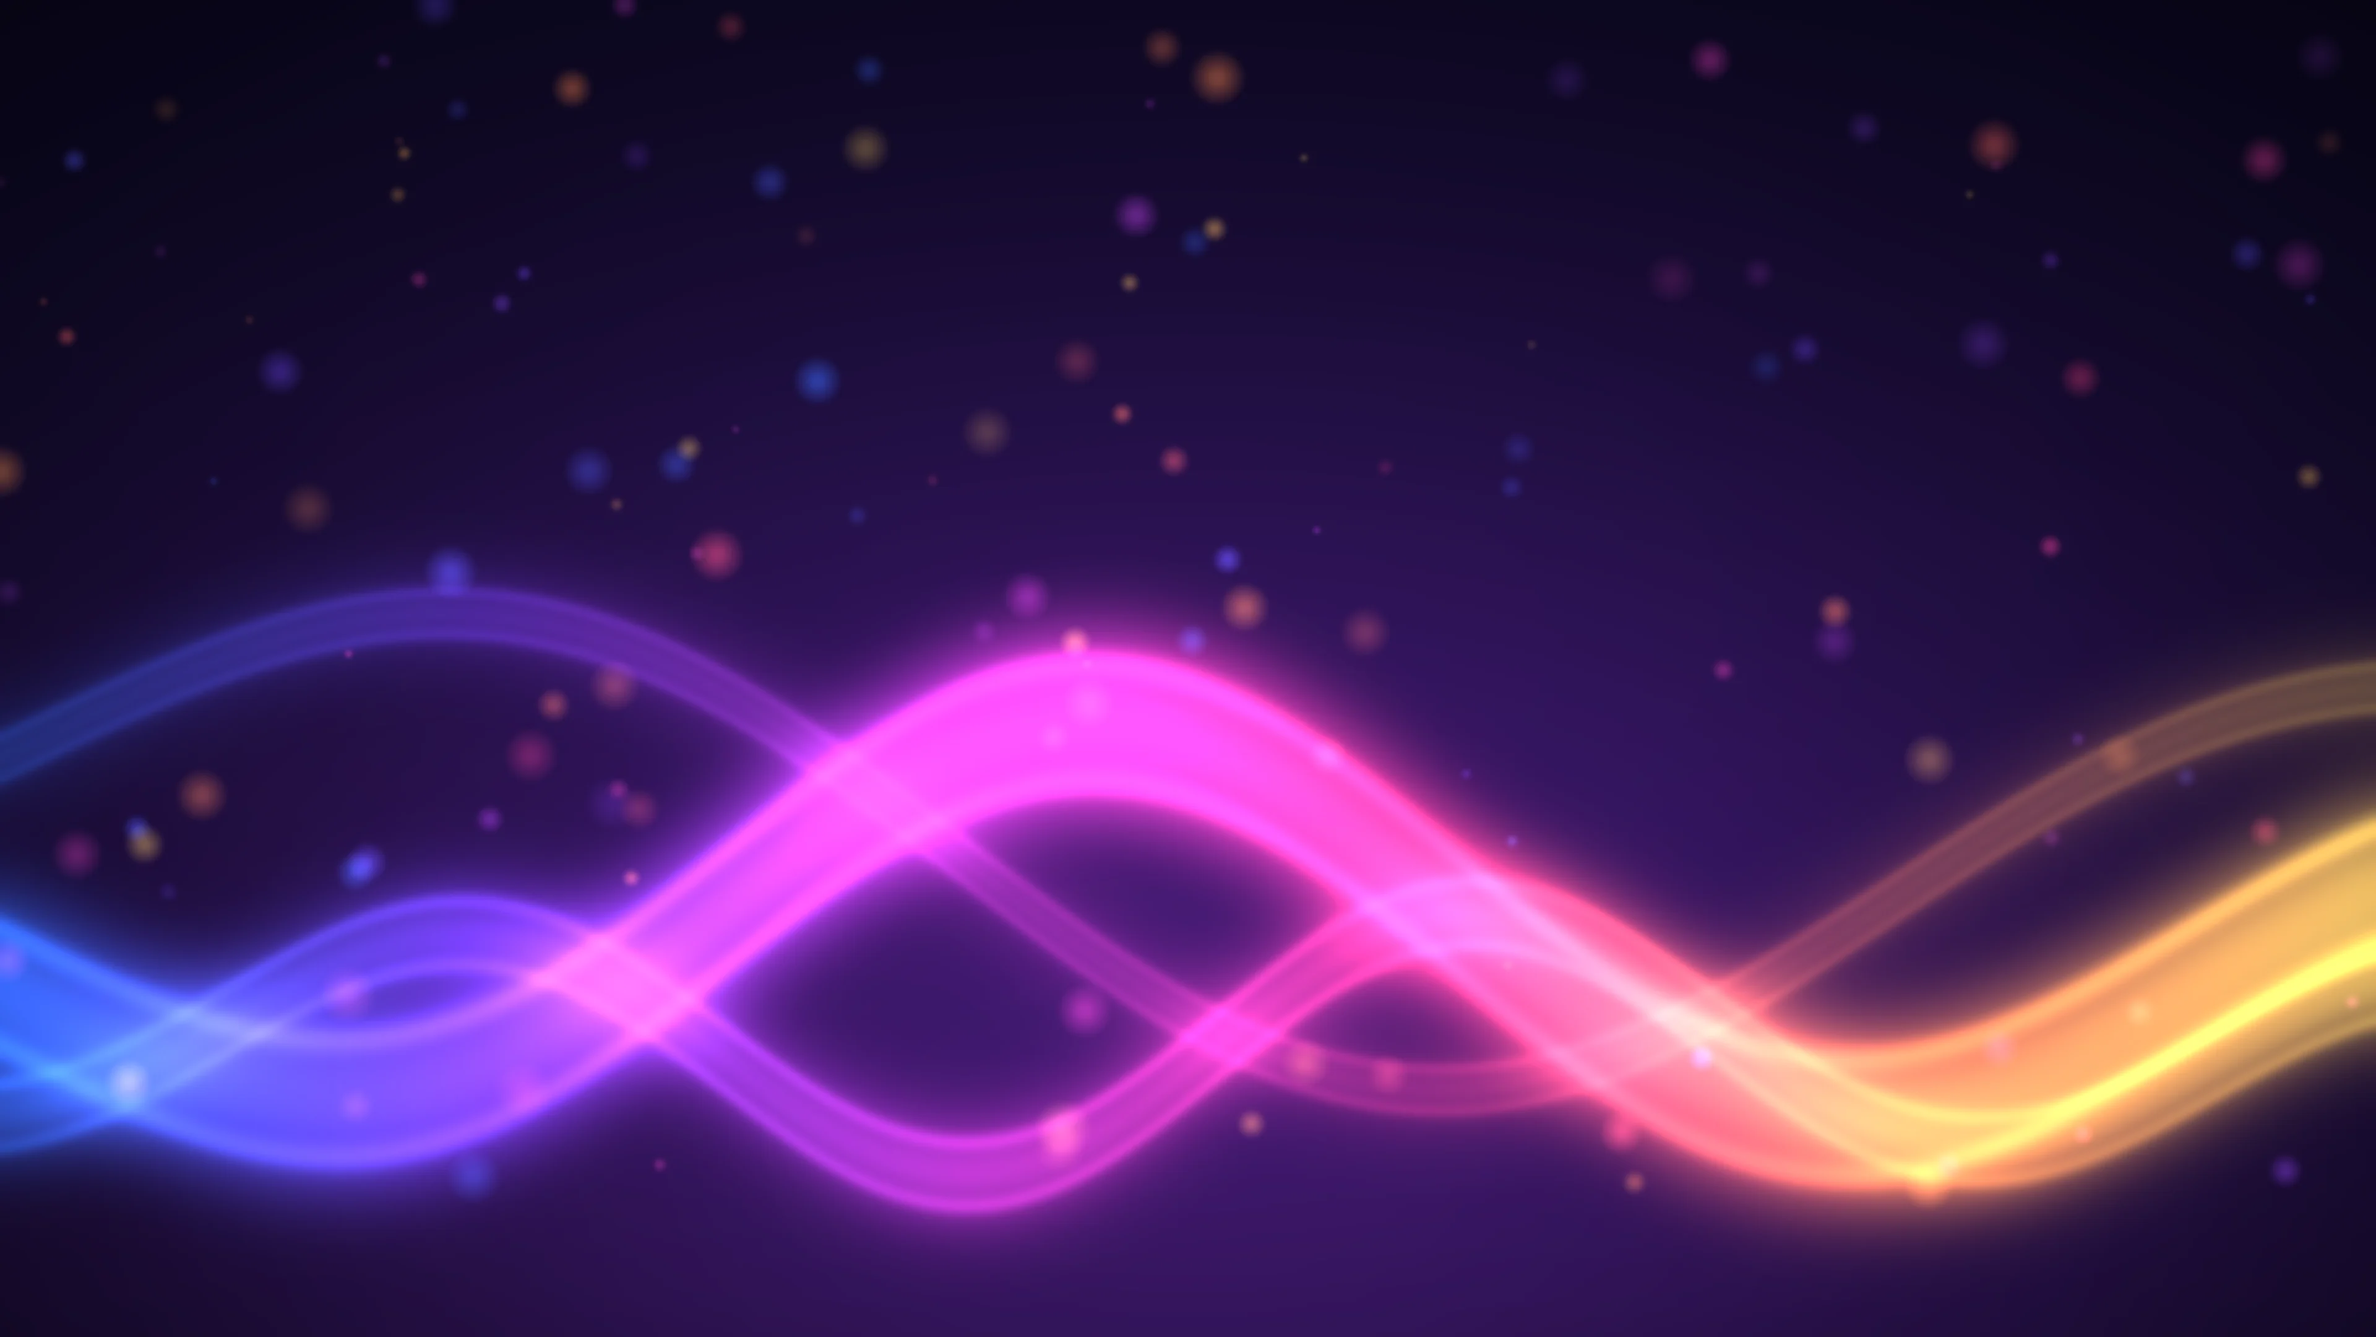
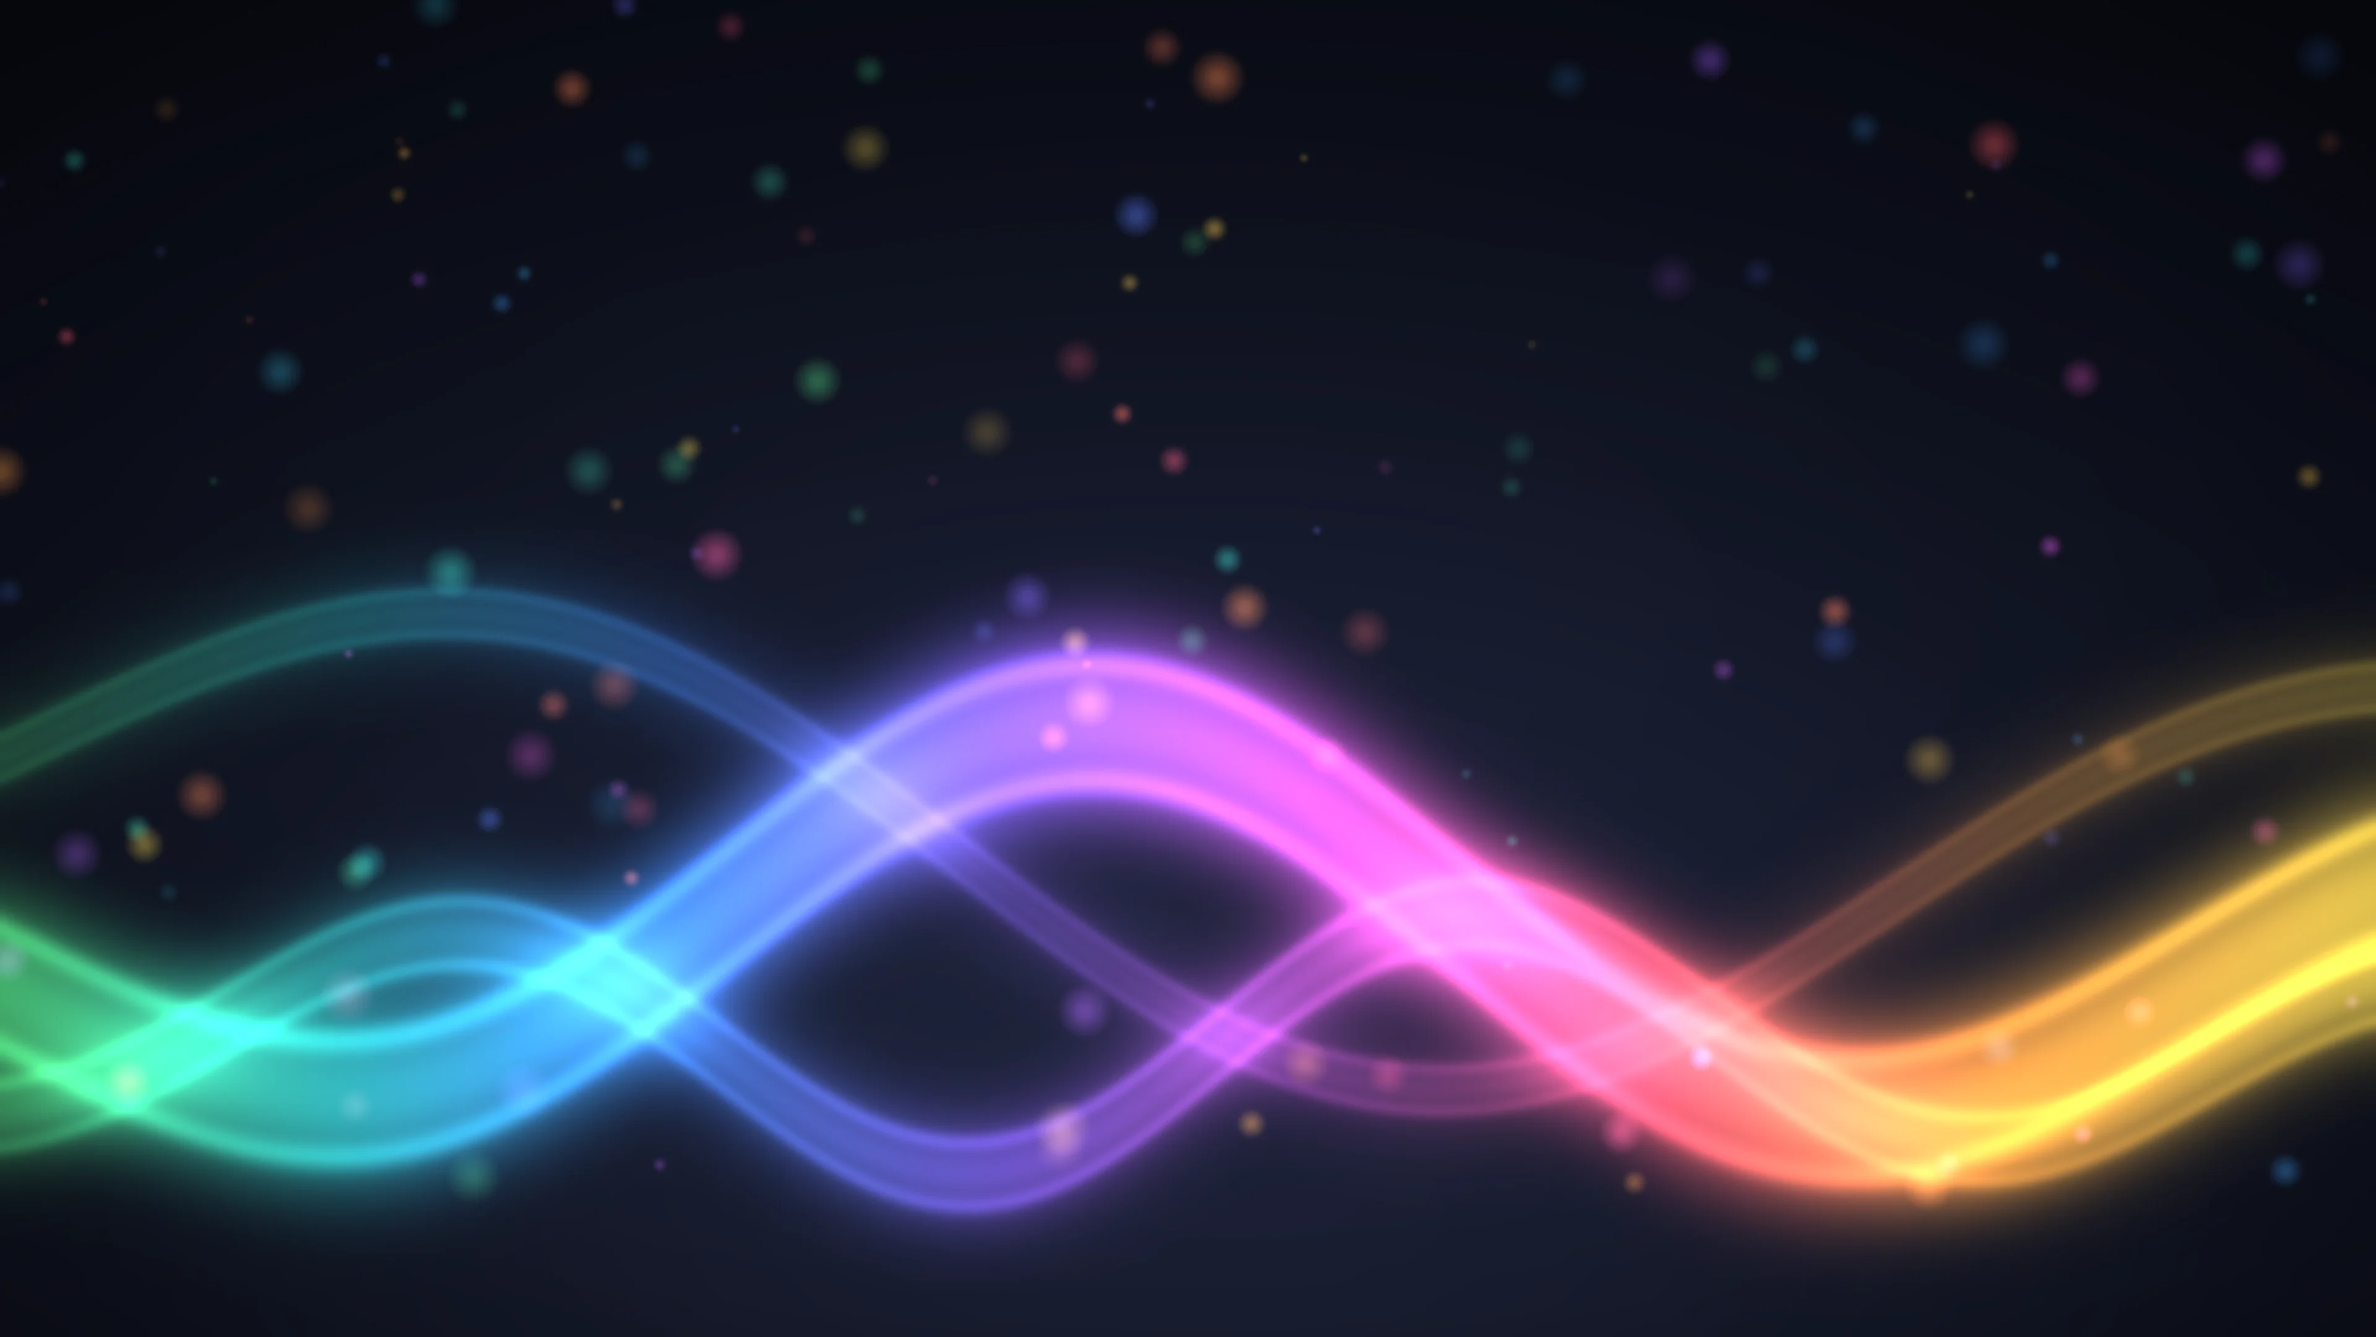
fix(theme): Prism gives every color of the mark a fair share (neutral glass, one job per color, full-spectrum backdrop and orbs)
Claude-Session: https://claude.ai/code/session_01ST51G83JxPiQC3q5f2Ah7r

diff --git a/src/styles/theme-aero.css b/src/styles/theme-aero.css
@@ -13,8 +13,8 @@
     of stars, graded to the theme's navy and teal (photo: see ATTRIBUTION.md);
     smoky glass.
   - Prism (data-theme="prism"): after Audiform's mark. Moonlight's dark
-    glass, tinted violet, over glowing rainbow ribbons; candy-glass
-    transport orbs in the mark's colors, rainbow meters and edges.
+    glass over glowing ribbons in every color of the mark, each color with
+    its own job (see the Prism section below).
   Scenes and pointer art live in src/assets/themes.
 */
 
@@ -77,7 +77,7 @@
   background: #0a1838 url("../assets/themes/moonlight.webp") center / cover no-repeat fixed;
 }
 :root[data-theme="prism"] body {
-  background: #0d0822 url("../assets/themes/prism.webp") center / cover no-repeat fixed;
+  background: #0a0c16 url("../assets/themes/prism.webp") center / cover no-repeat fixed;
 }
 :root[data-theme="aqua"] body {
   background: #1a7fc0 url("../assets/themes/aqua.webp") center / cover no-repeat fixed;
@@ -758,30 +758,54 @@
 }
 
 
-/* ---------- Prism: after the mark ---------- */
+/* ---------- Prism: after the mark ----------
+   Clear dark glass, with each of the mark's colors given its own job:
+   blue picks and selects, green turns things on, gold is the playhead
+   and the clock, orange the values, violet the faders, pink the knob
+   pointers, red is recording, and the whole spectrum runs along the edges
+   and up the meters. */
 
 :root[data-theme="prism"] {
-  --accent: #d05cff;
-  --accent-dim: #8a4fd8;
-  --playhead: #ffc83a;
-  --value: #ff9ae6;
+  --accent: #3f8cff;
+  --accent-dim: #2a5fb0;
+  --playhead: #ffd23f;
+  --value: #ffa64a;
   --selected-text: #ffffff;
   --clip-1: #3f8cff;
-  --clip-2: #8f5cff;
-  --clip-3: #e04ad0;
-  --clip-4: #ff4f7a;
-  --clip-5: #ff9a2f;
-  --clip-6: #ffd23f;
-  --clip-7: #4fd67a;
+  --clip-2: #3fbf5a;
+  --clip-3: #ff9a2f;
+  --clip-4: #8f5cff;
+  --clip-5: #e6b820;
+  --clip-6: #e04ad0;
+  --clip-7: #2fbfb0;
   /* The mark's colors, end to end. */
-  --prism: linear-gradient(90deg, #3f8cff, #8f5cff 20%, #e04ad0 40%, #ff4f7a 60%, #ff9a2f 80%, #ffd23f);
-  --a-pick: linear-gradient(#e7a0ff, #b04ef0 52%, #8a2fd8);
-  --a-pane: linear-gradient(135deg, rgba(120, 70, 200, 0.34), rgba(40, 20, 80, 0.5) 40%, rgba(30, 12, 60, 0.55) 65%, rgba(160, 60, 160, 0.3));
+  --prism: linear-gradient(90deg, #3fbf5a, #2fbfb0 14%, #3f8cff 28%, #8f5cff 42%, #e04ad0 56%, #ff4f5a 70%, #ff9a2f 84%, #ffd23f);
+  --a-pick: linear-gradient(#a8f0b8, #3fbf5a 52%, #2a9a44);
+  --a-pane: linear-gradient(135deg, rgba(60, 70, 100, 0.34), rgba(18, 20, 34, 0.5) 40%, rgba(14, 16, 28, 0.55) 65%, rgba(60, 66, 90, 0.3));
+  /* Neutral graphite glass, so no one color leads. */
+  --surface-0: rgba(16, 18, 28, 0.28);
+  --surface-1: rgba(18, 20, 32, 0.32);
+  --surface-2: rgba(26, 30, 44, 0.84);
+  --surface-3: rgba(50, 56, 76, 0.55);
+  --border: rgba(255, 255, 255, 0.2);
+  --border-strong: rgba(255, 255, 255, 0.32);
+  --text: #f2f4fa;
+  --text-dim: #b8bccc;
+  --text-faint: #8a8fa4;
+  --lane-a: rgba(20, 22, 34, 0.42);
+  --lane-b: rgba(20, 22, 34, 0.3);
+  --lane-selected: rgba(63, 140, 255, 0.28);
+  --header-a: rgba(28, 32, 48, 0.5);
+  --header-b: rgba(28, 32, 48, 0.4);
+  --a-glass: rgba(18, 20, 32, 0.3);
+  --a-glass-strong: rgba(34, 38, 56, 0.7);
+  --a-edge: rgba(255, 255, 255, 0.35);
+  --a-shine: linear-gradient(rgba(255, 255, 255, 0.2), rgba(255, 255, 255, 0.04) 50%, rgba(255, 255, 255, 0) 51%);
 }
 
-/* Glass tinted violet, with a thin rainbow along the top of each pane. */
+/* Glass panes, with a thin spectrum along the top of each. */
 :root[data-theme="prism"] .dockview-theme-altaudio .dv-groupview {
-  box-shadow: var(--a-rim), 0 12px 32px rgba(10, 0, 30, 0.5), 0 0 24px rgba(180, 80, 255, 0.12);
+  box-shadow: var(--a-rim), 0 12px 32px rgba(0, 0, 10, 0.5);
 }
 :root[data-theme="prism"] .dockview-theme-altaudio .dv-groupview::before {
   content: "";
@@ -794,74 +818,77 @@
   z-index: 4;
 }
 :root[data-theme="prism"] :is(.dialog, [role="dialog"], .menubar .dropdown, .context) {
-  background: var(--a-shine), linear-gradient(135deg, rgba(70, 30, 120, 0.9), rgba(24, 10, 52, 0.88));
+  background: var(--a-shine), linear-gradient(135deg, rgba(40, 46, 70, 0.92), rgba(14, 16, 28, 0.9));
   border-image: var(--prism) 1;
 }
 :root[data-theme="prism"] :is(.menubar .dropdown, .context) {
-  background: var(--a-shine), linear-gradient(135deg, rgba(70, 30, 120, 0.7), rgba(24, 10, 52, 0.64));
+  background: var(--a-shine), linear-gradient(135deg, rgba(40, 46, 70, 0.72), rgba(14, 16, 28, 0.66));
 }
 :root[data-theme="prism"] .menubar {
-  background: var(--a-shine), linear-gradient(135deg, rgba(70, 34, 120, 0.78), rgba(22, 10, 50, 0.72));
+  background: var(--a-shine), linear-gradient(135deg, rgba(40, 46, 70, 0.8), rgba(14, 16, 28, 0.74));
 }
 :root[data-theme="prism"] header.top {
   border-bottom: 2px solid;
   border-image: var(--prism) 1;
 }
 :root[data-theme="prism"] :is(.editor .toolbar, .bar:has(> .transport)) {
-  background: var(--a-shine), rgba(40, 18, 80, 0.5);
-  border-color: rgba(220, 150, 255, 0.25);
+  background: var(--a-shine), rgba(22, 26, 42, 0.5);
+  border-color: rgba(255, 255, 255, 0.18);
 }
 :root[data-theme="prism"] :is(button, select):not(.row, .top, .tool, .context button, .view, .clock, .grab, .fold, .chev) {
-  background-color: rgba(60, 26, 110, 0.6);
+  background-color: rgba(34, 40, 62, 0.62);
   background-image:
-    radial-gradient(ellipse 80% 55% at 50% 0%, rgba(255, 210, 255, 0.4), rgba(255, 210, 255, 0) 70%),
-    linear-gradient(rgba(0, 0, 0, 0) 60%, rgba(220, 90, 255, 0.2));
-  border-color: rgba(220, 150, 255, 0.45);
+    radial-gradient(ellipse 80% 55% at 50% 0%, rgba(255, 255, 255, 0.32), rgba(255, 255, 255, 0) 70%),
+    linear-gradient(rgba(0, 0, 0, 0) 60%, rgba(120, 170, 255, 0.14));
+  border-color: rgba(255, 255, 255, 0.3);
 }
 :root[data-theme="prism"] :is(input[type="text"], input[type="number"], input[type="search"], input:not([type]), textarea, .header .auto, .auto-pick) {
-  background-color: rgba(18, 8, 40, 0.72);
-  border-color: rgba(220, 150, 255, 0.35);
+  background-color: rgba(10, 12, 22, 0.72);
+  border-color: rgba(255, 255, 255, 0.25);
 }
 :root[data-theme="prism"] :is(.tool, .view):hover:not(:disabled) {
-  background: var(--a-shine), rgba(170, 80, 230, 0.3);
+  background: var(--a-shine), rgba(255, 255, 255, 0.14);
 }
 :root[data-theme="prism"] :is(tr, li, .item, .file):hover {
-  background-color: rgba(200, 100, 255, 0.14);
+  background-color: rgba(255, 255, 255, 0.08);
 }
 :root[data-theme="prism"] :is(tr, li, .item, .file):is(.sel, .selected, .on, .active) {
-  background-color: rgba(170, 70, 230, 0.38);
+  background-color: rgba(63, 140, 255, 0.34);
 }
-:root[data-theme="prism"] :is(.tool.on:not(.rec, .play), .view.on, .modes button.on, .header .ms.on:not(.solo, .rec)) {
+:root[data-theme="prism"] :is(.view.on, .modes button.on) {
+  background: var(--a-shine), linear-gradient(#8fc0ff, #3f8cff 52%, #2a6ad8);
+}
+:root[data-theme="prism"] :is(.tool.on:not(.rec, .play), .header .ms.on:not(.solo, .rec)) {
   background: var(--a-shine), var(--a-pick);
 }
 
 /* Transport: candy glass orbs, one color of the mark each, lit from above. */
 :root[data-theme="prism"] .bar:has(> .transport) .transport .tool {
-  --orb: #8f5cff;
+  --orb: #3f8cff;
   border: 1px solid color-mix(in srgb, var(--orb) 40%, white);
   border-radius: 50%;
   background:
     radial-gradient(ellipse 60% 38% at 50% 18%, rgba(255, 255, 255, 0.95), rgba(255, 255, 255, 0) 70%),
     radial-gradient(circle at 50% 85%, color-mix(in srgb, var(--orb) 55%, white), rgba(255, 255, 255, 0) 55%),
     radial-gradient(circle at 50% 55%, var(--orb), color-mix(in srgb, var(--orb) 55%, black) 100%);
-  box-shadow: 0 3px 8px rgba(10, 0, 30, 0.55), 0 0 10px color-mix(in srgb, var(--orb) 45%, transparent);
+  box-shadow: 0 3px 8px rgba(0, 0, 10, 0.55), 0 0 10px color-mix(in srgb, var(--orb) 45%, transparent);
   color: #ffffff;
 }
 :root[data-theme="prism"] .bar:has(> .transport) .transport .tool svg {
-  filter: drop-shadow(0 1px 2px rgba(20, 0, 40, 0.8));
+  filter: drop-shadow(0 1px 2px rgba(0, 0, 10, 0.8));
 }
-:root[data-theme="prism"] .bar:has(> .transport) .transport .tool:nth-child(7n + 1) { --orb: #3f8cff; }
-:root[data-theme="prism"] .bar:has(> .transport) .transport .tool:nth-child(7n + 2) { --orb: #8f5cff; }
-:root[data-theme="prism"] .bar:has(> .transport) .transport .tool:nth-child(7n + 3) { --orb: #c24ae8; }
-:root[data-theme="prism"] .bar:has(> .transport) .transport .tool:nth-child(7n + 4) { --orb: #e04ad0; }
-:root[data-theme="prism"] .bar:has(> .transport) .transport .tool:nth-child(7n + 5) { --orb: #ff4f7a; }
-:root[data-theme="prism"] .bar:has(> .transport) .transport .tool:nth-child(7n + 6) { --orb: #ff9a2f; }
-:root[data-theme="prism"] .bar:has(> .transport) .transport .tool:nth-child(7n + 7) { --orb: #e6b820; }
+:root[data-theme="prism"] .bar:has(> .transport) .transport .tool[aria-label="Stop"] { --orb: #3f8cff; }
 :root[data-theme="prism"] .bar:has(> .transport) .transport .tool.play { --orb: #3fbf5a; }
+:root[data-theme="prism"] .bar:has(> .transport) .transport .tool[aria-label="Go to start"] { --orb: #2fbfb0; }
+:root[data-theme="prism"] .bar:has(> .transport) .transport .tool[aria-label="Rewind"] { --orb: #8f5cff; }
+:root[data-theme="prism"] .bar:has(> .transport) .transport .tool[aria-label="Fast forward"] { --orb: #e04ad0; }
+:root[data-theme="prism"] .bar:has(> .transport) .transport .tool[aria-label="Go to end"] { --orb: #ff9a2f; }
 :root[data-theme="prism"] .bar:has(> .transport) .transport .tool.rec { --orb: #e2283a; color: #ffffff; }
+:root[data-theme="prism"] .bar:has(> .transport) .transport .tool[aria-label="Loop playback"] { --orb: #e6b820; }
+:root[data-theme="prism"] .bar:has(> .transport) .transport .tool[aria-label="Skip selection"] { --orb: #36b8e6; }
 :root[data-theme="prism"] .bar:has(> .transport) .transport .tool:hover:not(:disabled) {
   background-color: transparent;
-  box-shadow: 0 3px 8px rgba(10, 0, 30, 0.55), 0 0 16px color-mix(in srgb, var(--orb) 80%, transparent);
+  box-shadow: 0 3px 8px rgba(0, 0, 10, 0.55), 0 0 16px color-mix(in srgb, var(--orb) 80%, transparent);
   filter: brightness(1.12);
 }
 :root[data-theme="prism"] .bar:has(> .transport) .transport .tool:is(.on, .play.on, .rec.on) {
@@ -871,51 +898,51 @@
   box-shadow: 0 0 16px color-mix(in srgb, var(--orb) 90%, transparent), 0 0 4px #ffffff inset;
 }
 :root[data-theme="prism"] .bar .clock {
-  background: var(--a-shine), rgba(20, 8, 44, 0.75);
-  color: #ffd9ff;
-  text-shadow: 0 0 8px rgba(230, 110, 255, 0.95);
+  background: var(--a-shine), rgba(10, 12, 22, 0.75);
+  color: #ffe9a0;
+  text-shadow: 0 0 8px rgba(255, 200, 60, 0.9);
 }
 
-/* Meters: the mark's colors, blue at the bottom to orange and red at the top. */
+/* Meters: the spectrum, blue at the bottom through green and gold to red at the top. */
 :root[data-theme="prism"] .levels .bar {
-  background: linear-gradient(to right, #3f8cff, #8f5cff 40%, #e04ad0 calc(var(--meter-yellow, 80%) - 8%), #ff9a2f var(--meter-yellow, 80%), #ff6a3a calc(var(--meter-red, 95%) - 2%), #ff2a4a);
-  box-shadow: 0 0 10px rgba(200, 90, 255, 0.4), 0 0 0 1px rgba(230, 170, 255, 0.4);
+  background: linear-gradient(to right, #3f8cff, #2fbfb0 30%, #3fbf5a 50%, #c8e040 calc(var(--meter-yellow, 80%) - 8%), #ffd23f var(--meter-yellow, 80%), #ff9a2f calc(var(--meter-red, 95%) - 2%), #ff3a4a);
+  box-shadow: 0 0 8px rgba(120, 200, 255, 0.3), 0 0 0 1px rgba(255, 255, 255, 0.3);
 }
 :root[data-theme="prism"] :is(.meter .bar, .mbar) {
-  background: linear-gradient(to top, #3f8cff, #8f5cff 40%, #e04ad0 calc(var(--meter-yellow, 80%) - 8%), #ff9a2f var(--meter-yellow, 80%), #ff6a3a calc(var(--meter-red, 95%) - 2%), #ff2a4a);
-  box-shadow: 0 0 8px rgba(200, 90, 255, 0.35), 0 0 0 1px rgba(230, 170, 255, 0.35);
+  background: linear-gradient(to top, #3f8cff, #2fbfb0 30%, #3fbf5a 50%, #c8e040 calc(var(--meter-yellow, 80%) - 8%), #ffd23f var(--meter-yellow, 80%), #ff9a2f calc(var(--meter-red, 95%) - 2%), #ff3a4a);
+  box-shadow: 0 0 6px rgba(120, 200, 255, 0.25), 0 0 0 1px rgba(255, 255, 255, 0.28);
 }
 :root[data-theme="prism"] :is(.levels, .meter) .cover,
 :root[data-theme="prism"] .mcover {
-  background: linear-gradient(rgba(30, 12, 62, 0.97), rgba(14, 6, 34, 0.97));
+  background: linear-gradient(rgba(22, 26, 42, 0.97), rgba(10, 12, 22, 0.97));
 }
 :root[data-theme="prism"] .meter .bars {
-  border-color: rgba(230, 170, 255, 0.35);
-  background: rgba(14, 6, 34, 0.6);
+  border-color: rgba(255, 255, 255, 0.28);
+  background: rgba(10, 12, 22, 0.6);
 }
 
-/* Faders and knobs: candy glass, with a pink pointer. */
+/* Faders violet candy glass; knob pointers pink. */
 :root[data-theme="prism"] :is(.fader .cap, .track .cap) {
-  border-color: rgba(255, 200, 255, 0.75);
+  border-color: rgba(220, 200, 255, 0.75);
   background:
-    radial-gradient(ellipse 90% 60% at 50% 0%, rgba(255, 235, 255, 0.85), rgba(255, 255, 255, 0) 70%),
-    linear-gradient(#b04ef0, #5a1f9a);
+    radial-gradient(ellipse 90% 60% at 50% 0%, rgba(240, 235, 255, 0.85), rgba(255, 255, 255, 0) 70%),
+    linear-gradient(#9a6cff, #4a2a9a);
 }
 :root[data-theme="prism"] :is(.fader .slot, .track .slot) {
-  background: linear-gradient(90deg, rgba(10, 0, 20, 0.6), rgba(220, 120, 255, 0.3));
+  background: linear-gradient(90deg, rgba(0, 0, 10, 0.6), rgba(255, 255, 255, 0.2));
 }
 :root[data-theme="prism"] .bk .pointer {
-  stroke: #ff7ae0;
+  stroke: #ff6ad8;
 }
 :root[data-theme="prism"] .bk .skirt {
-  stroke: rgba(230, 170, 255, 0.5);
+  stroke: rgba(255, 255, 255, 0.4);
 }
 :root[data-theme="prism"] ::-webkit-scrollbar-thumb {
-  background: linear-gradient(#8f5cff, #e04ad0) padding-box;
+  background: linear-gradient(#3fbf5a, #3f8cff 35%, #8f5cff 55%, #ff9a2f 80%, #ffd23f) padding-box;
   box-shadow: none;
 }
 :root[data-theme="prism"] .backdrop {
-  background: rgba(8, 0, 20, 0.4);
+  background: rgba(0, 0, 10, 0.4);
 }
 /* The fireflies are Moonlight's; Prism's sparkles are in its backdrop. */
 :root[data-theme="prism"] body::before {

diff --git a/docs/decisions.md b/docs/decisions.md
@@ -1485,4 +1485,4 @@ Several requests compared behavior to another editor; per the guardrails they ar
 
 ## 2026-10-28: Prism theme
 
-- **Prism** (Settings > Appearance > Theme), after Audiform's mark: Moonlight's dark glass tinted violet over a backdrop of glowing rainbow glass ribbons (made for Audiform). The transport buttons are candy-glass orbs in the mark's colors (blue, violet, pink, red, orange, gold; play green and record red), meters run from blue through violet and pink to orange and red, panes carry a thin rainbow along their top, and the menu bar a rainbow edge. Dark stays the default.
+- **Prism** (Settings > Appearance > Theme), after Audiform's mark: neutral dark graphite glass over a backdrop of glowing ribbons in every color of the mark (made for Audiform). No one color leads; each has its own job: blue picks and selects, green turns things on, gold is the playhead and the clock, orange the values, violet the faders, pink the knob pointers, red recording. The transport orbs run through the whole spectrum (stop blue, play green, then teal, violet, pink, orange, record red, gold, sky), meters go from blue through green and gold to red, and the spectrum runs along the top of each pane and under the menu bar. Dark stays the default.
